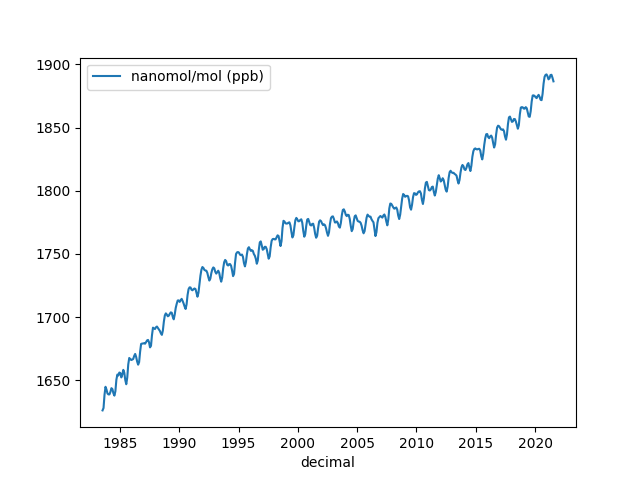
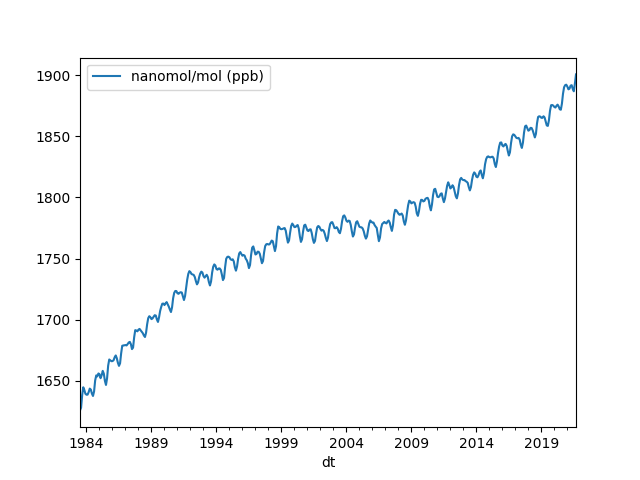
-

diff --git a/en/README.md b/en/README.md
@@ -34,11 +34,11 @@ future. Lithium reserves are limited, can only handle 5% of world
 storage needs. Fast charging on par with chemically refueling is a
 pipe dream, the best they can do is half an hour, which, when applied
 degrades the battery increasing the chance of a blowup (when these
-f-ing thing burn BTW, fire fighters cannot put it out with regular
-methods). Batteries degrade even with regular charging (see below)
-after 3500 cycles they go down to 70% capacity (imagine the effects of
-that on a second-hand market for BEVs). Batteries are heavy,
-impractical for transportation of energy.  Batteries rely on
+f-ing things burn BTW, fire fighters cannot put out the fire with
+regular methods). Batteries degrade even with regular charging (see
+below) after 3500 cycles they go down to 70% capacity (imagine the
+effects of that on a second-hand market for BEVs). Batteries are
+heavy, impractical for transportation of energy.  Batteries rely on
 rare-earth materials, for which we need to destroy Chile, Bolivia to
 get. From a systemic, TCO viewpoint the tech is a complete junk.
 
@@ -56,11 +56,14 @@ batteries)"
 
 ---
 
+The Mandarin: "Australia signs defence treaty with Japan, launches
+hydrogen trade program"
+
+---
+
 QFS tech can carry 803 kg at 248 bars in one trailer. H2 is 20 kg/m3
 at 300 bars, 33.6 kWh/kg and avg household consumption of elec being
 893 kWh per month,
-
-Avg household consumption of elec is 893 kWh per month.
 
 ```python
 eng = 10 * 33.6 * 803.0
@@ -148,10 +151,6 @@ best-selling memoir"
 
 ---
 
-The Mandarin: "Australia signs defence treaty with Japan, launches
-hydrogen trade program"
-
----
 
 If you do single-payer, have to do it at scale, the bigger the better,
 so California scale would be a good place to start. If they pull it off,

diff --git a/en/2015/08/temp-increase.md b/en/2015/08/temp-increase.md
@@ -302,9 +302,22 @@ df.columns = cols
 df = df.set_index('decimal')
 df['dt'] = df.apply(lambda x: pd.to_datetime("%d-%02d-01" %(x.year,x.month)), axis=1)
 df[['dt','average']].to_csv('methane.csv',index=None)
-df.average.plot()
+df1 = df.set_index('dt')
+df1.average.plot()
+print (df1.average.tail(6))
 plt.legend(['nanomol/mol (ppb)'])
 plt.savefig('methane.png')
+```
+
+```text
+dt
+2021-04-01    1891.3
+2021-05-01    1891.7
+2021-06-01    1888.6
+2021-07-01    1886.7
+2021-08-01    1893.1
+2021-09-01    1900.5
+Name: average, dtype: float64
 ```
 
 ![](methane.png)

diff --git a/en/2020/02/corona.md b/en/2020/02/corona.md
@@ -89,11 +89,11 @@ plt.savefig('US-deaths.png')
 
 ```text
 Date
-2022-01-04    1221.142857
 2022-01-05    1191.000000
 2022-01-06    1256.428571
 2022-01-07    1546.714286
-2022-01-08    1602.714286
+2022-01-08    1603.000000
+2022-01-09    1615.285714
 Name: New deaths, dtype: float64
 ```
 
@@ -133,11 +133,6 @@ Name: 1, dtype: float64
 ```
 
 ![](Rt-US.png)
-
-
-
-
-
 
 Code
 
